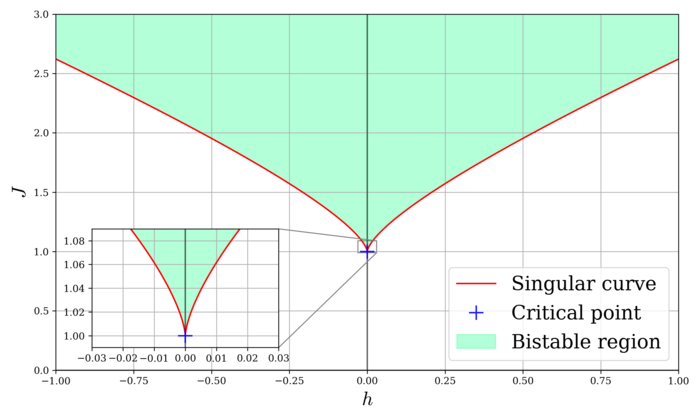
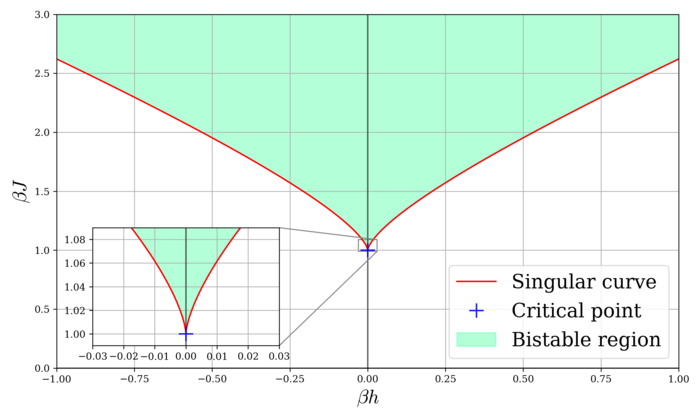
style: Add \beta to J and h on CW phase diagram plot

diff --git a/scripts/CW_phase_diagram.py b/scripts/CW_phase_diagram.py
@@ -18,8 +18,8 @@ J = np.arange(1,3,.0001)
 h1 = -J*np.sqrt(1-1/(beta*J)) + 1/(2*beta)*( np.log(1+np.sqrt(1-1/(beta*J))) - np.log(1-np.sqrt(1-1/(beta*J))) )
 h2 = J*np.sqrt(1-1/(beta*J)) + 1/(2*beta)*( np.log(1-np.sqrt(1-1/(beta*J))) - np.log(1+np.sqrt(1-1/(beta*J))) )
 
-plt.xlabel(r'$h$', fontsize=20)
-plt.ylabel(r'$J$', fontsize=20)
+plt.xlabel(r'$\beta h$', fontsize=20)
+plt.ylabel(r'$\beta J$', fontsize=20)
 
 plt.axvline(0, alpha=.5, color='black')
 plt.axhline(0, alpha=.5, color='black')
